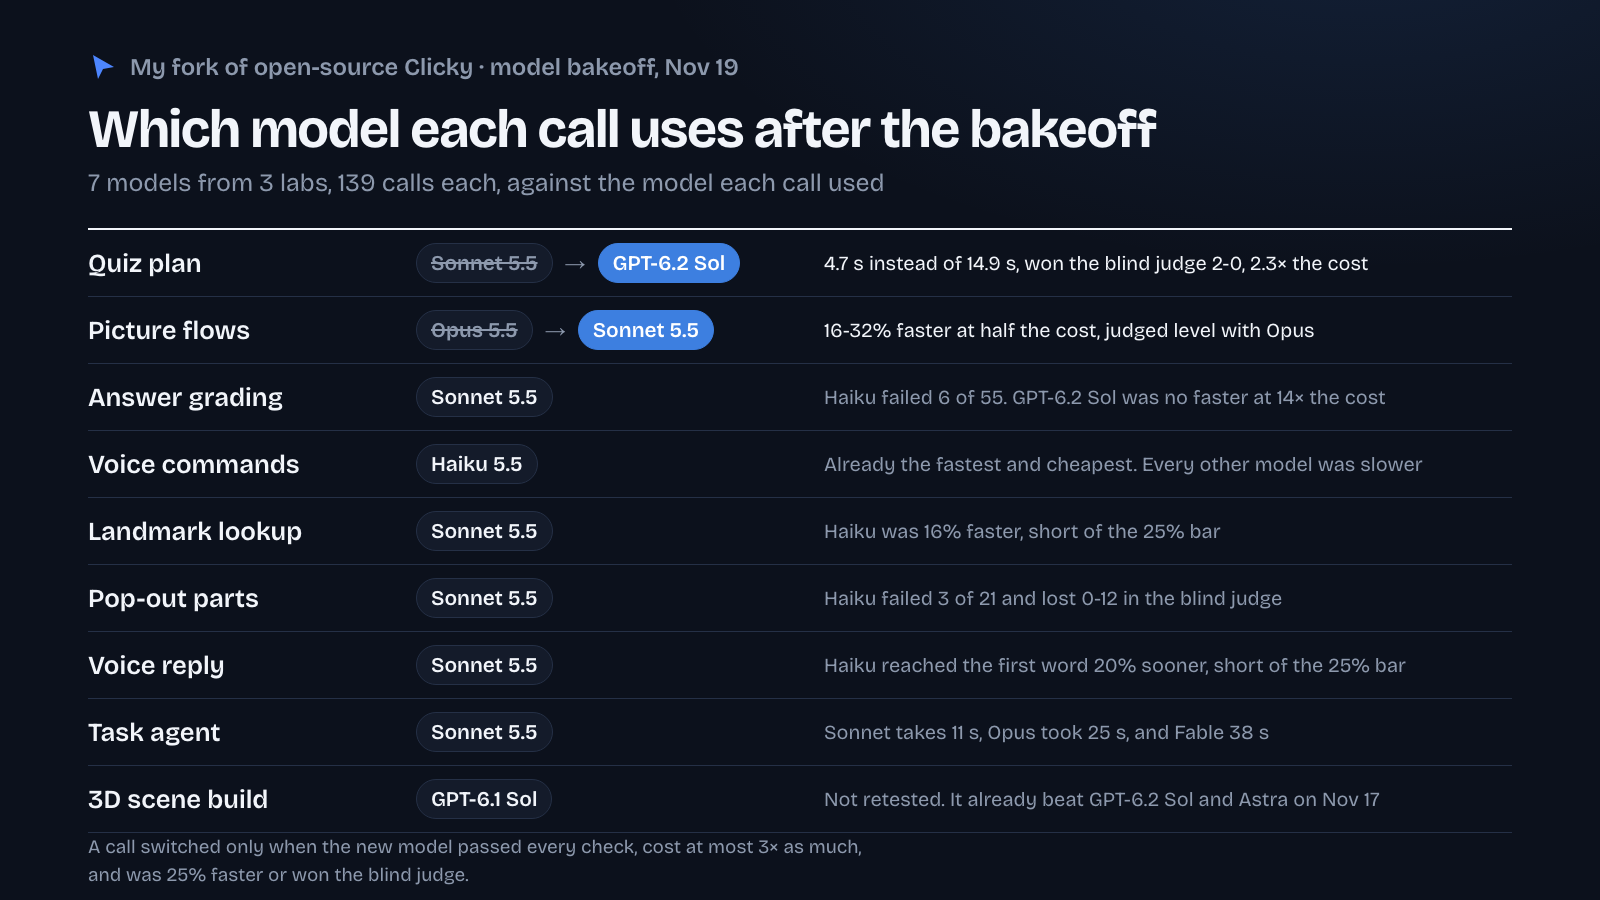
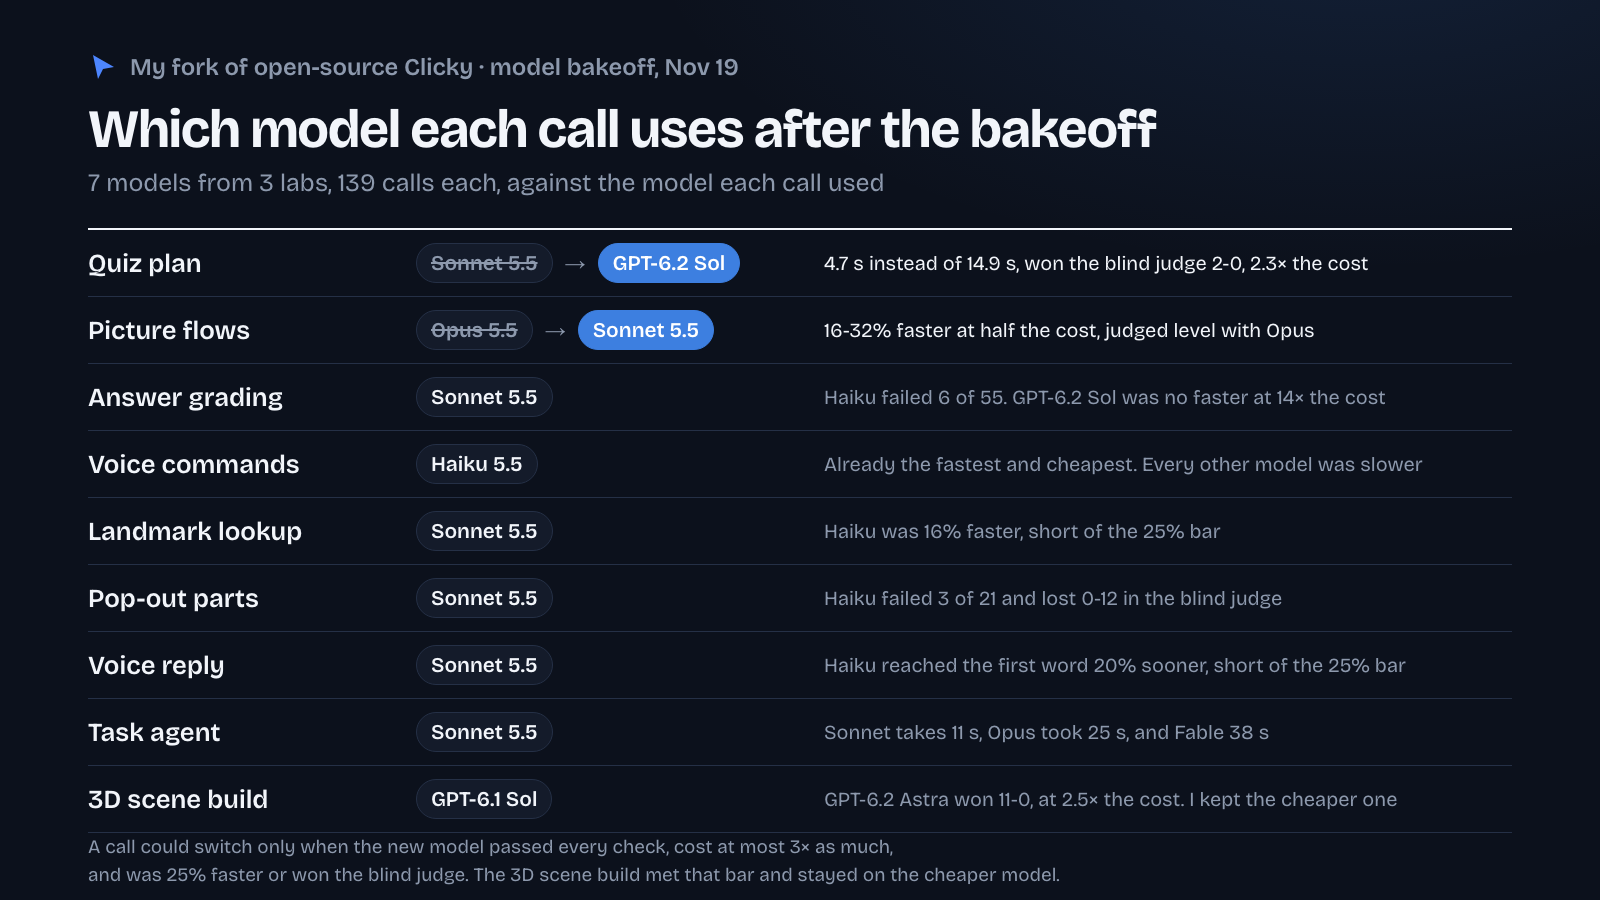
Add the scene render card and note why scenes stay on GPT-6.1 Sol
GPT-6.2 Astra won the render bakeoff 11-0, but a scene costs $1.09 on it against
$0.43, so the self-funded app keeps the cheaper model.

Changed region(s): [[0.0938, 0.9333, 0.6562, 0.9956], [0.5, 0.8711, 0.875, 0.9022]]

diff --git a/bench/graphics/scene-renders.html b/bench/graphics/scene-renders.html
@@ -1,0 +1,80 @@
+<!doctype html>
+<html>
+<head>
+<meta charset="utf-8">
+<title>Scene renders</title>
+<link rel="preconnect" href="https://fonts.googleapis.com">
+<link rel="stylesheet" href="https://fonts.googleapis.com/css2?family=Bricolage+Grotesque:opsz,wght@12..96,400;12..96,600;12..96,700&display=swap">
+<link rel="stylesheet" href="shared.css">
+<style>
+  /* Three small panels on one row per model: median time, cost per render, and the blind judge's wins against 6.1 Sol. */
+  .panels { margin-top: 40px; display: grid; grid-template-columns: 280px 1fr 1fr 1.3fr; column-gap: 40px; row-gap: 26px; align-items: center; }
+  .head { font-size: 20px; font-weight: 600; color: var(--text-muted); border-bottom: 1px solid var(--rule); padding-bottom: 10px; }
+  .label { font-size: 26px; font-weight: 600; line-height: 1.1; }
+  .label small { display: block; font-size: 17px; font-weight: 400; color: var(--text-muted); margin-top: 3px; }
+  .track { position: relative; height: 40px; }
+  .bar { position: absolute; left: 0; top: 4px; height: 32px; border-radius: 0 4px 4px 0; background: var(--today); }
+  .bar.winner { background: var(--faster); }
+  .value { position: absolute; top: 5px; font-size: 22px; font-weight: 600; white-space: nowrap; }
+  .value small { font-size: 16px; color: var(--text-muted); font-weight: 400; }
+  .round-one { margin-top: 44px; font-size: 20px; color: var(--text-muted); line-height: 1.5; }
+  .round-one b { color: var(--text); font-weight: 600; }
+</style>
+</head>
+<body>
+<div class="card">
+  <div class="brand"><svg viewBox="0 0 30 30" aria-label="Clicky"><path d="M5 3 L26 15 L15 17 L10 27 Z" fill="#4d86ff"/></svg><span>My fork of open-source Clicky · model bakeoff, Nov 19</span></div>
+  <h1>3D scene builds by model</h1>
+  <div class="subhead">Heart model, cannon, and lever experiments, 2 runs each at Ultrafast, judged blind from screenshots</div>
+  <div class="panels" id="panels">
+    <div></div>
+    <div class="head">Median time</div>
+    <div class="head">Cost per scene</div>
+    <div class="head">Blind judge picks it over GPT-6.1 Sol</div>
+  </div>
+  <div class="round-one" id="roundOne"></div>
+  <div class="foot">
+    <div><b>Clicky keeps GPT-6.1 Sol.</b> I pay for every scene myself, and Astra's better scenes cost $1.09 each instead of $0.43.</div>
+  </div>
+</div>
+<script src="bakeoff-data.js"></script>
+<script>
+  const { renderRound2, blindJudge } = window.bakeoff;
+  const models = [
+    { name: 'GPT-6.1 Sol', lab: 'kept, the cheaper one', stats: renderRound2.app },
+    { name: 'GPT-6.2 Astra', lab: 'won every decided pair', stats: renderRound2.astra, wins: blindJudge.renderRound2.astra, winner: true },
+    { name: 'GPT-6.2 Sol', lab: 'better, but slower', stats: renderRound2.sol62, wins: blindJudge.renderRound2.sol62 },
+  ];
+  const panels = document.getElementById('panels');
+  const maxMs = 40000;
+  const maxUSD = 1.2;
+  for (const model of models) {
+    const label = document.createElement('div');
+    label.className = 'label';
+    label.innerHTML = `${model.name}<small>${model.lab}</small>`;
+    const bar = (share, text) => `<div class="bar${model.winner ? ' winner' : ''}" style="width:${share * 100}%"></div><div class="value num" style="left:calc(${share * 100}% + 10px)">${text}</div>`;
+    const time = document.createElement('div');
+    time.className = 'track';
+    time.innerHTML = bar(Math.min(1, model.stats.p50Ms / maxMs) * 0.78, `${(model.stats.p50Ms / 1000).toFixed(1)} s`);
+    const cost = document.createElement('div');
+    cost.className = 'track';
+    cost.innerHTML = bar(Math.min(1, model.stats.costPerCallUSD / maxUSD) * 0.78, `$${model.stats.costPerCallUSD.toFixed(2)}`);
+    const judge = document.createElement('div');
+    judge.className = 'track';
+    if (model.wins === undefined) {
+      judge.innerHTML = '<div class="value" style="left:0;color:var(--text-muted);font-weight:400;font-size:19px">what Clicky uses</div>';
+    } else {
+      const [wins, losses] = model.wins;
+      const share = wins / (wins + losses);
+      judge.innerHTML = bar(share * 0.78, `${Math.round(share * 100)}% <small>${wins}-${losses}</small>`);
+    }
+    panels.append(label, time, cost, judge);
+  }
+  // Round one ran every lab's model once on each case; the ones that did not win are listed in words.
+  const roundOne = blindJudge.renderRound1;
+  document.getElementById('roundOne').innerHTML =
+    `<b>Round one, every model once on each scene:</b> Opus 5.5 ${roundOne.opus.join('-')}, Sonnet 5.5 ${roundOne.sonnet.join('-')}, Haiku 5.5 ${roundOne.haiku.join('-')}, ` +
+    `Gemini 4 Neon ${roundOne.neon.join('-')} against GPT-6.1 Sol. Fable 5.2 won 2-0 but took 3 to 5 minutes a scene.`;
+</script>
+</body>
+</html>

diff --git a/bench/bakeoffGraphics.ts b/bench/bakeoffGraphics.ts
@@ -121,6 +121,9 @@ const taskAgent = Object.fromEntries(["base", "haiku", "sonnet", "opus", "fable"
 
 const flowsRerun = Object.fromEntries(["base", "sonnet", "opus", "sol62"].map((side) => [side, workerStats(`flows2-${side}-worker-`)]));
 
+/** Render round two: the app's GPT-6.1 Sol and the two GPT-6.2 models, all at Ultrafast, 2 runs of 3 cases. */
+const renderRound2 = Object.fromEntries(["app", "sol62", "astra"].map((side) => [side, workerStats(`render2-${side}-worker-`)]));
+
 /**
  * Blind judge tallies: wins and losses count one per judge per pair, and a pair a judge split across the A/B orders is
  * undecided. From bench/replies/judged/summary.json of the six-challenger and Neon runs, and the 5-run flows rerun.
@@ -131,9 +134,12 @@ const blindJudge = {
   "/picture-flows": { haiku: [1, 4], sonnet: [3, 2], opus: [1, 3], fable: [4, 0], sol62: [4, 1], astra: [3, 2], neon: [4, 1] },
   "/chat": { haiku: [3, 0], sonnet: [0, 3], opus: [3, 1], fable: [3, 0], sol62: [3, 0], astra: [4, 0], neon: [4, 0] },
   flowsRerun: { opus: [12, 8], sonnet: [17, 10], sol62: [21, 6] },
+  // Against the app's GPT-6.1 Sol at Ultrafast, from bench/replies/render2/judged and render/judged-vs-app.
+  renderRound2: { astra: [11, 0], sol62: [7, 4] },
+  renderRound1: { astra: [6, 0], sol62: [5, 0], fable: [2, 0], neon: [2, 2], opus: [2, 4], sonnet: [2, 4], haiku: [1, 5] },
 };
 
-const bakeoff = { recordedOn: "2026-11-19", routes: routeStats, taskAgent, flowsRerun, blindJudge };
+const bakeoff = { recordedOn: "2026-11-19", routes: routeStats, taskAgent, flowsRerun, renderRound2, blindJudge };
 const outputPath = join(import.meta.dirname, "graphics", "bakeoff-data.js");
 writeFileSync(outputPath, `// Written by bench/bakeoffGraphics.ts. Do not edit by hand.\nwindow.bakeoff = ${JSON.stringify(bakeoff, null, 1)};\n`);
 console.log(`wrote ${outputPath}`);

diff --git a/bench/graphics/models-after-bakeoff.html b/bench/graphics/models-after-bakeoff.html
@@ -27,7 +27,7 @@
   <div class="subhead">7 models from 3 labs, 139 calls each, against the model each call used</div>
   <div class="rows" id="rows"></div>
   <div class="foot">
-    <div>A call switched only when the new model passed every check, cost at most 3× as much,<br>and was 25% faster or won the blind judge.</div>
+    <div>A call could switch only when the new model passed every check, cost at most 3× as much,<br>and was 25% faster or won the blind judge. The 3D scene build met that bar and stayed on the cheaper model.</div>
   </div>
 </div>
 <script>
@@ -40,7 +40,7 @@
     { name: 'Pop-out parts', before: 'Sonnet 5.5', why: 'Haiku failed 3 of 21 and lost 0-12 in the blind judge' },
     { name: 'Voice reply', before: 'Sonnet 5.5', why: 'Haiku reached the first word 20% sooner, short of the 25% bar' },
     { name: 'Task agent', before: 'Sonnet 5.5', why: 'Sonnet takes 11 s, Opus took 25 s, and Fable 38 s' },
-    { name: '3D scene build', before: 'GPT-6.1 Sol', why: 'Not retested. It already beat GPT-6.2 Sol and Astra on Nov 17' },
+    { name: '3D scene build', before: 'GPT-6.1 Sol', why: 'GPT-6.2 Astra won 11-0, at 2.5× the cost. I kept the cheaper one' },
   ];
   const rows = document.getElementById('rows');
   for (const call of calls) {

diff --git a/bench/graphics/bakeoff-data.js b/bench/graphics/bakeoff-data.js
@@ -653,6 +653,32 @@ window.bakeoff = {
    "costPerCallUSD": 0.03126516
   }
  },
+ "renderRound2": {
+  "app": {
+   "passed": 6,
+   "runs": 6,
+   "p50Ms": 20334.22779199999,
+   "p95Ms": 26156.510791,
+   "firstTokenP50Ms": null,
+   "costPerCallUSD": 0.4287254
+  },
+  "sol62": {
+   "passed": 6,
+   "runs": 6,
+   "p50Ms": 35902.87012499996,
+   "p95Ms": 42542.438624999995,
+   "firstTokenP50Ms": null,
+   "costPerCallUSD": 0.4944195
+  },
+  "astra": {
+   "passed": 6,
+   "runs": 6,
+   "p50Ms": 18455.930209000013,
+   "p95Ms": 21604.693375000003,
+   "firstTokenP50Ms": null,
+   "costPerCallUSD": 1.0859179999999997
+  }
+ },
  "blindJudge": {
   "/video-quiz-plan": {
    "haiku": [
@@ -786,6 +812,46 @@ window.bakeoff = {
    "sol62": [
     21,
     6
+   ]
+  },
+  "renderRound2": {
+   "astra": [
+    11,
+    0
+   ],
+   "sol62": [
+    7,
+    4
+   ]
+  },
+  "renderRound1": {
+   "astra": [
+    6,
+    0
+   ],
+   "sol62": [
+    5,
+    0
+   ],
+   "fable": [
+    2,
+    0
+   ],
+   "neon": [
+    2,
+    2
+   ],
+   "opus": [
+    2,
+    4
+   ],
+   "sonnet": [
+    2,
+    4
+   ],
+   "haiku": [
+    1,
+    5
    ]
   }
  }

diff --git a/AGENTS.md b/AGENTS.md
@@ -321,7 +321,7 @@ The pop-out lands back in the frame, then clears before the video plays again. S
 | `tools/fetch-haikyu-portraits.py` | ~180 | Downloads each team theme player's page image from the Haikyu!! wiki and crops it with ffmpeg to a 160 by 160 pixel JPEG in the gitignored `leanring-buddy/HaikyuPortraits/`. It reads the players from the `wikiTitle` strings in `HaikyuTheme.swift`, builds the same file name slug, and keeps per-player crop overrides for faces the default crop misses. |
 | `tools/swift-check.sh` | ~45 | Builds the app's Swift sources and runs `leanring-buddyTests` without xcodebuild, in a throwaway Swift package that links the sources in place, with the stand-ins and settings in `tools/swift-check/`. It skips the tests that read a page from the app bundle, which only Xcode's test host has. Its `Package.swift` mirrors the Xcode target's Swift settings, so change both together. |
 | `bench/report.ts` | ~185 | Turns benchmark result files into the CSV tables a chart page reads. CI runs it on every committed result. |
-| `bench/bakeoffGraphics.ts` | ~150 | Reads the 2026-11-19 bakeoff's results into `bench/graphics/bakeoff-data.js` for the five posting cards in `bench/graphics/`, which `bench/graphics/render.sh` draws to PNGs. |
+| `bench/bakeoffGraphics.ts` | ~150 | Reads the 2026-11-19 bakeoff's results into `bench/graphics/bakeoff-data.js` for the six posting cards in `bench/graphics/`, which `bench/graphics/render.sh` draws to PNGs. |
 | `demo/` | ~2935 | A Remotion edit of real Clicky recordings for the demo video. `scripts/record-shot.sh` records a Chrome window on the MacBook's Retina display while the rehearsal flag drives the main checkout's Debug build, `scripts/track-cursor.ts` finds the blue triangle in each frame, `scripts/drive-trebuchet-shot.sh` drags the experiment's sliders with the real mouse (`scripts/mouse/mouse.swift`, with `scripts/experiment-panel.py` finding them in a screenshot), `src/timeline.ts` holds the shots, captions, and camera moves of the demo, the follow-up quiz clip, the study guide clip, the quiz miss clip, the parallel agents clip, and the "let me try it" experiment clip, `src/theme.ts` gives each clip its own fonts and colors, and `scripts/mix-music.ts` mixes a ducked music bed under the narration, with an optional voice gain per clip, and normalizes to -14 LUFS. Recordings, the music file, and renders are gitignored. See `demo/README.md`. |
 
 ## Build & Run

diff --git a/bench/README.md b/bench/README.md
@@ -301,7 +301,7 @@ OpenAI caches prompts over 1,024 tokens on its own, and the first run is cold on
 
 ### Graphics
 
-`bench/graphics/` holds five 1600 by 900 cards of the 2026-11-19 results, for posting.
+`bench/graphics/` holds six 1600 by 900 cards of the 2026-11-19 results, for posting.
 `node bench/bakeoffGraphics.ts` reads the committed results into `bench/graphics/bakeoff-data.js`, and `bench/graphics/render.sh` draws each card to a PNG with headless Chrome.
 The blind judge's tallies are copied into `bakeoffGraphics.ts`, since `bench/replies/` is gitignored.
 
